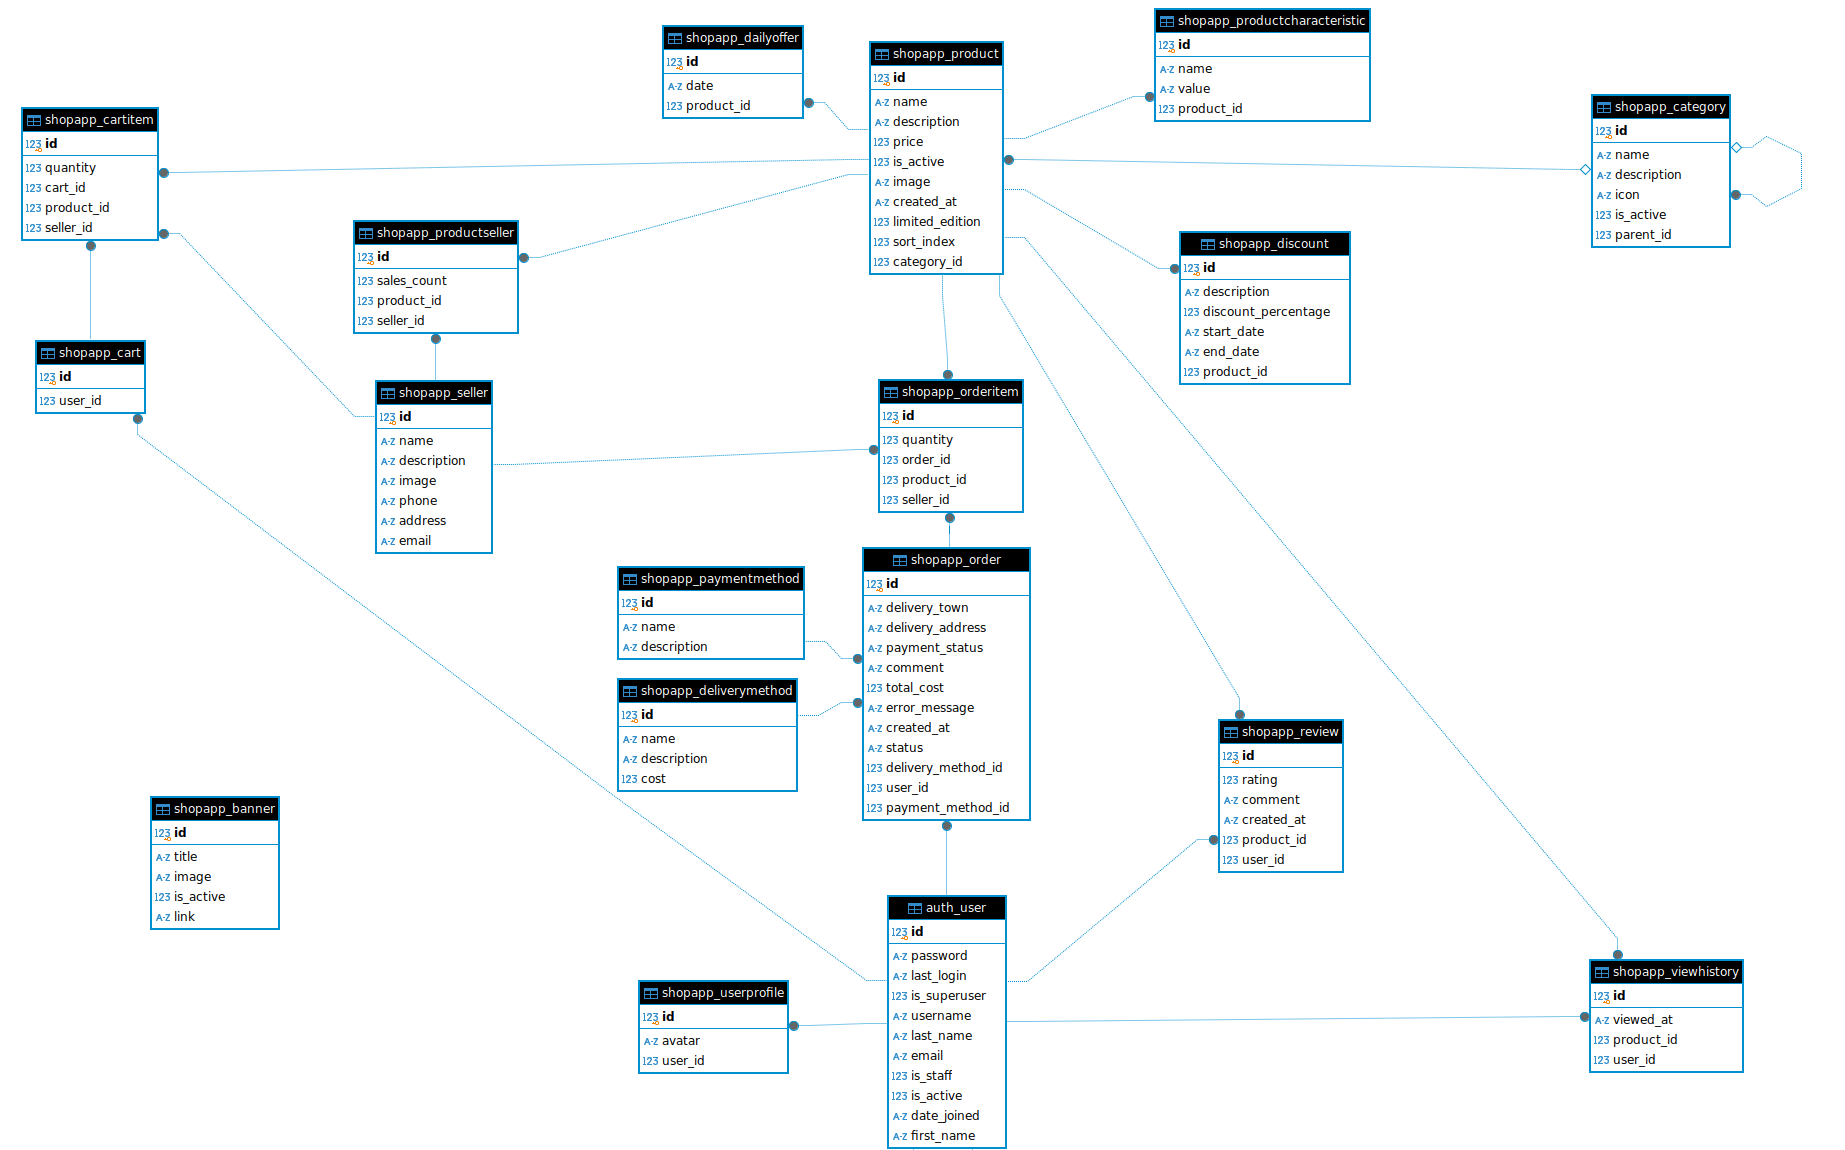
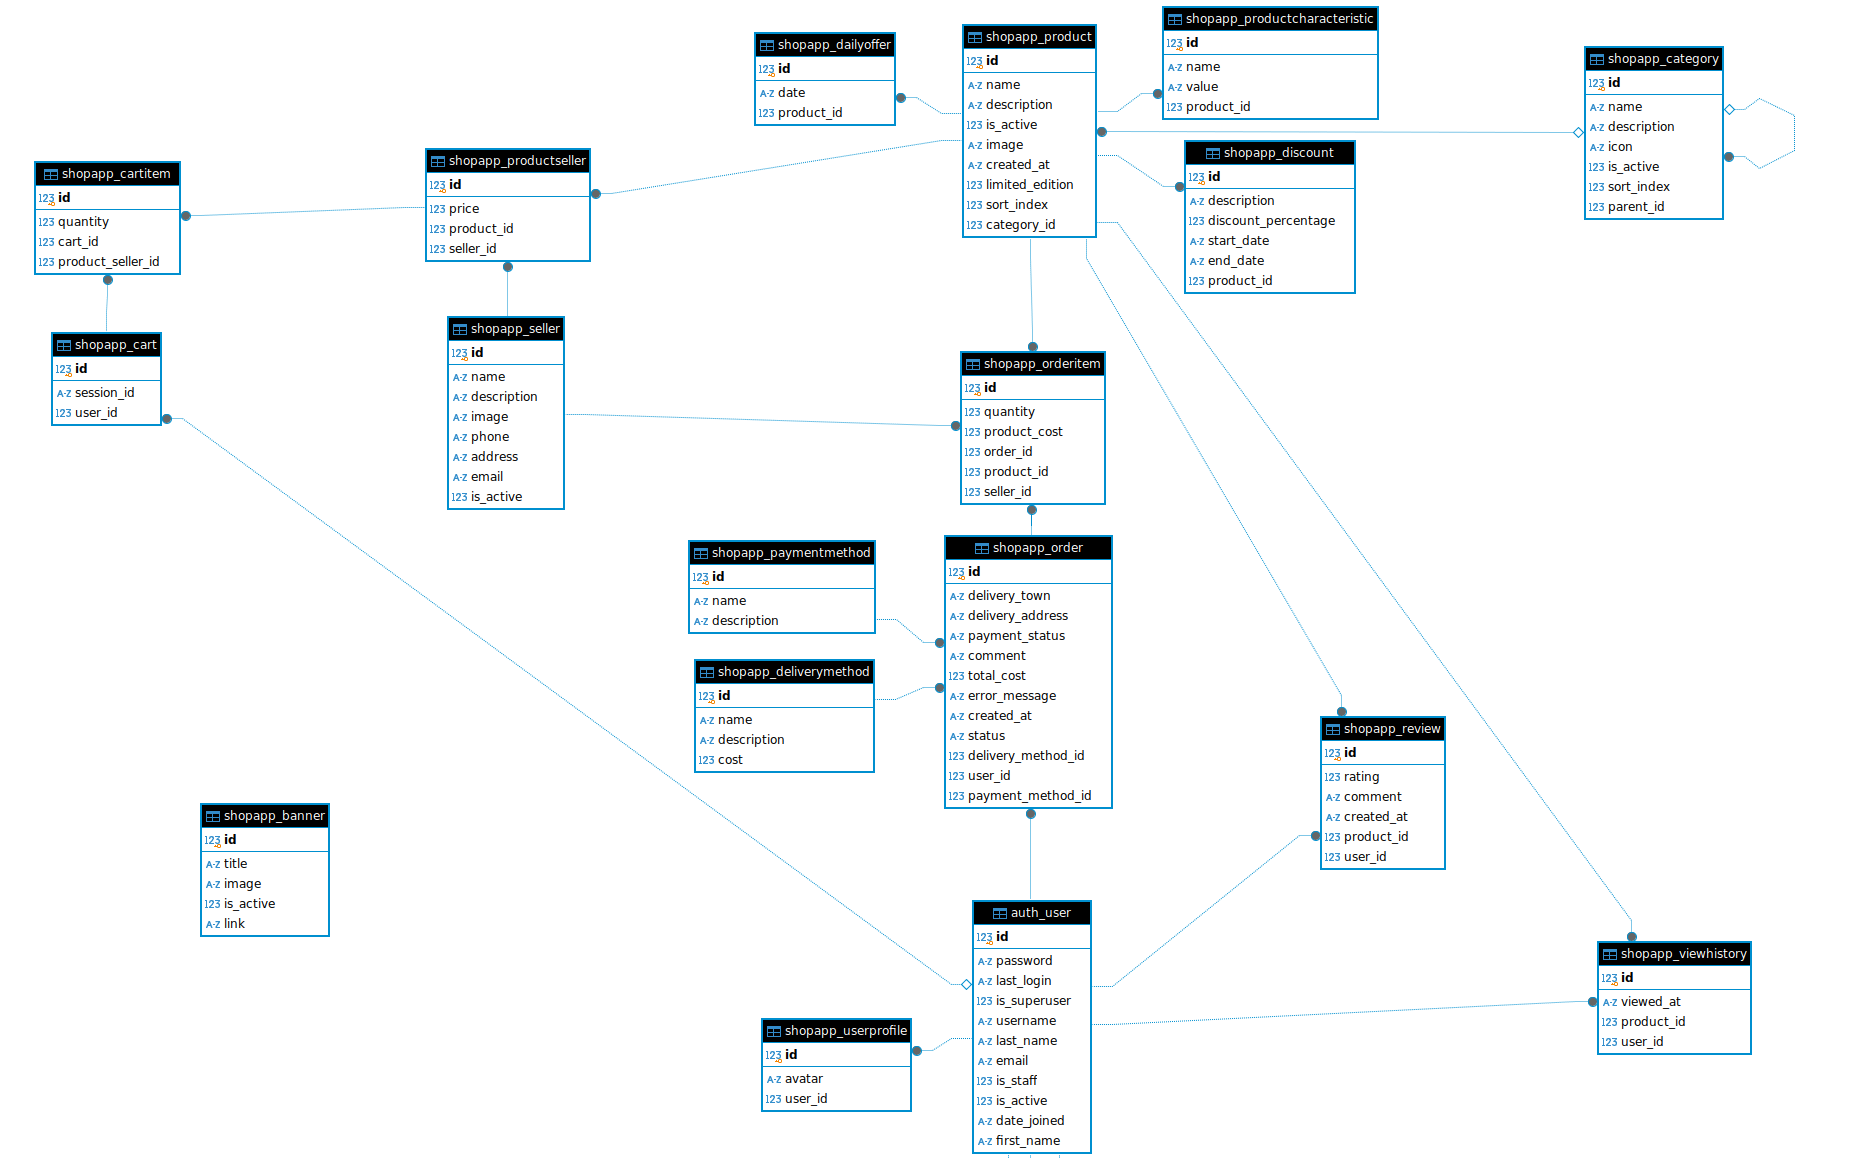
models_schema v2

diff --git a/models.py b/models.py
@@ -21,9 +21,10 @@ class Category(models.Model):
     icon = models.ImageField(upload_to='category_icons', blank=True, null=True, verbose_name='Иконка категории')
     parent = models.ForeignKey('self', on_delete=models.CASCADE, blank=True, null=True, related_name='children', verbose_name='Родительская категория')
     is_active = models.BooleanField(default=True, verbose_name='Статус активности')
+    sort_index = models.IntegerField(default=0, verbose_name='Индекс сортировки')
 
     class Meta:
-        ordering = ['name']
+        ordering = ['sort_index', 'name']
 
 # Модель баннеров
 class Banner(models.Model):
@@ -45,13 +46,13 @@ class Seller(models.Model):
     phone = models.CharField(max_length=20, verbose_name='Телефон')
     address = models.CharField(max_length=255, verbose_name='Адрес')
     email = models.EmailField(verbose_name='Email')
+    is_active = models.BooleanField(default=True, verbose_name='Статус активности')
 
 
-# Модель товаров и цен
+# Модель товаров
 class Product(models.Model):
     name = models.CharField(max_length=255, verbose_name='Название товара')
     description = models.TextField(verbose_name='Описание товара')
-    price = models.DecimalField(max_digits=10, decimal_places=2, verbose_name='Цена товара')
     category = models.ForeignKey(Category, on_delete=models.SET_NULL, related_name='products', verbose_name='Ключ на категорию товара', null=True)
     is_active = models.BooleanField(default=True, verbose_name='Статус доступности товара')
     image = models.ImageField(upload_to='products/', verbose_name='Изображение товара')
@@ -60,7 +61,7 @@ class Product(models.Model):
     sort_index = models.IntegerField(default=0, verbose_name='Индекс сортировки')
 
     class Meta:
-        ordering = ['sort_index', 'price', 'name']
+        ordering = ['sort_index', 'name']
 
 # Модель one-to-many Product - характеристики товара
 class ProductCharacteristic(models.Model):
@@ -72,10 +73,10 @@ class ProductCharacteristic(models.Model):
 class ProductSeller(models.Model):
     product = models.ForeignKey(Product, on_delete=models.CASCADE, related_name='sellers', verbose_name='Ключ на продукт')
     seller = models.ForeignKey(Seller, on_delete=models.CASCADE, related_name='products', verbose_name='Ключ на продавца')
-    sales_count = models.IntegerField(default=0, verbose_name='Количество продаж')
+    price = models.DecimalField(max_digits=10, decimal_places=2, verbose_name='Цена товара')
+    # sales_count = models.IntegerField(default=0, verbose_name='Количество продаж')
 
     class Meta:
-        ordering = ['-sales_count', 'seller']
         unique_together = ('product', 'seller')
 
 # Модель предложения дня
@@ -89,16 +90,16 @@ class DailyOffer(models.Model):
 
 # Модель корзины
 class Cart(models.Model):
-    user = models.ForeignKey(User, on_delete=models.CASCADE, verbose_name='Ключ на пользователя')
+    session_id = models.CharField(max_length=255, verbose_name='ID сессии')
+    user = models.ForeignKey(User, on_delete=models.CASCADE, null=True, verbose_name='Ключ на пользователя')
 
 class CartItem(models.Model):
     cart = models.ForeignKey(Cart, on_delete=models.CASCADE, verbose_name='Ключ на корзину')
-    product = models.ForeignKey(Product, on_delete=models.CASCADE, verbose_name='Ключ на товар')
     quantity = models.IntegerField(default=1, verbose_name='Количество товаров')
-    seller = models.ForeignKey(Seller, on_delete=models.CASCADE, verbose_name='Ключ на продавца')
+    product_seller = models.ForeignKey(ProductSeller, on_delete=models.CASCADE, verbose_name='Ключ на продавца и товар')
 
     class Meta:
-       unique_together = ('cart', 'product', 'seller')
+       unique_together = ('cart', 'product_seller')
 
 # Модель способов оплаты
 class PaymentMethod(models.Model):
@@ -138,9 +139,10 @@ class Order(models.Model):
 # Модель one-to-many Order - OrderItem с количеством товаров
 class OrderItem(models.Model):
     order = models.ForeignKey(Order, on_delete=models.CASCADE, related_name='items', verbose_name='Ключ на заказ')
-    product = models.ForeignKey(Product, on_delete=models.CASCADE, verbose_name='Ключ на товар')
+    product = models.ForeignKey(Product, on_delete=models.PROTECT, verbose_name='Ключ на товар')
     quantity = models.IntegerField(default=1, verbose_name='Количество товаров')
-    seller = models.ForeignKey(Seller, on_delete=models.CASCADE, verbose_name='Ключ на продавца')
+    seller = models.ForeignKey(Seller, on_delete=models.PROTECT, verbose_name='Ключ на продавца')
+    product_cost = models.DecimalField(max_digits=10, decimal_places=2, verbose_name='Стоимость товара')
 
     class Meta:
         unique_together = ('order', 'product', 'seller')
